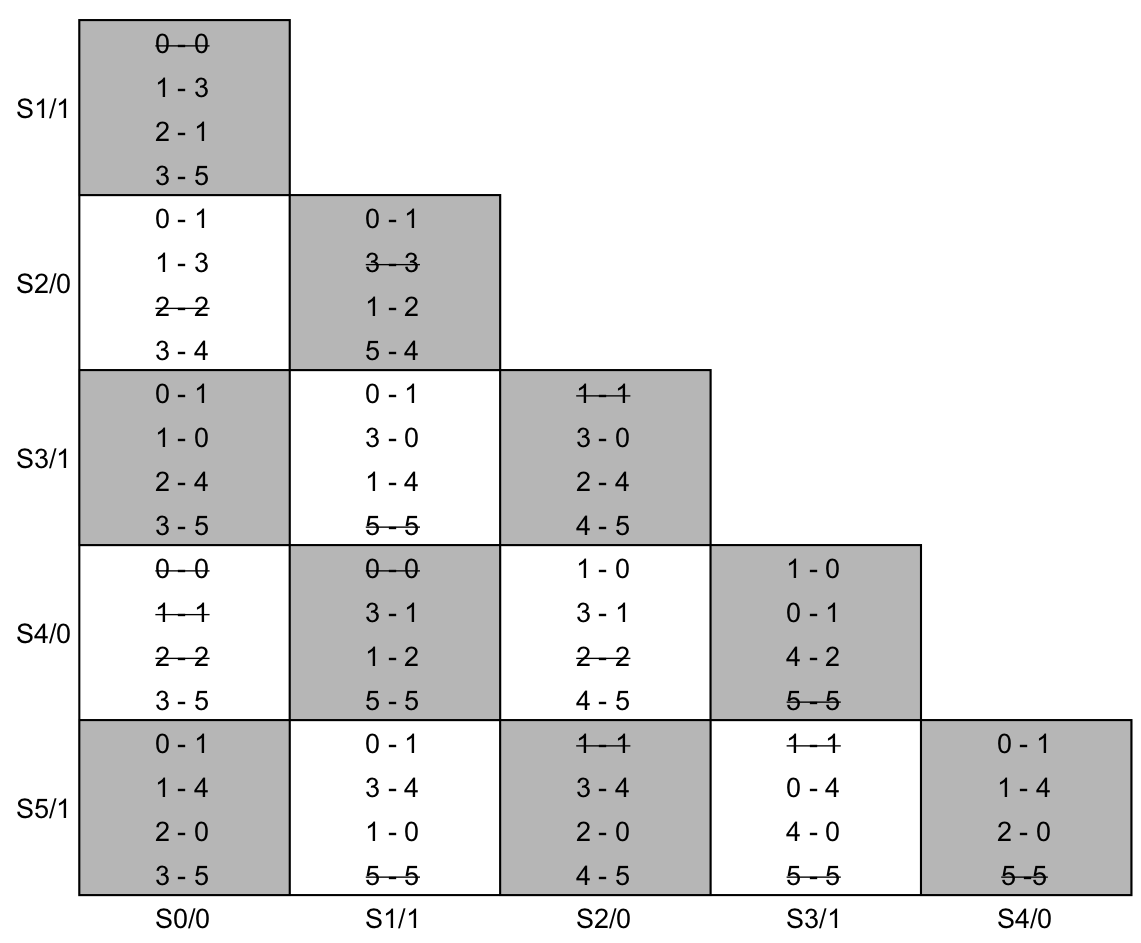
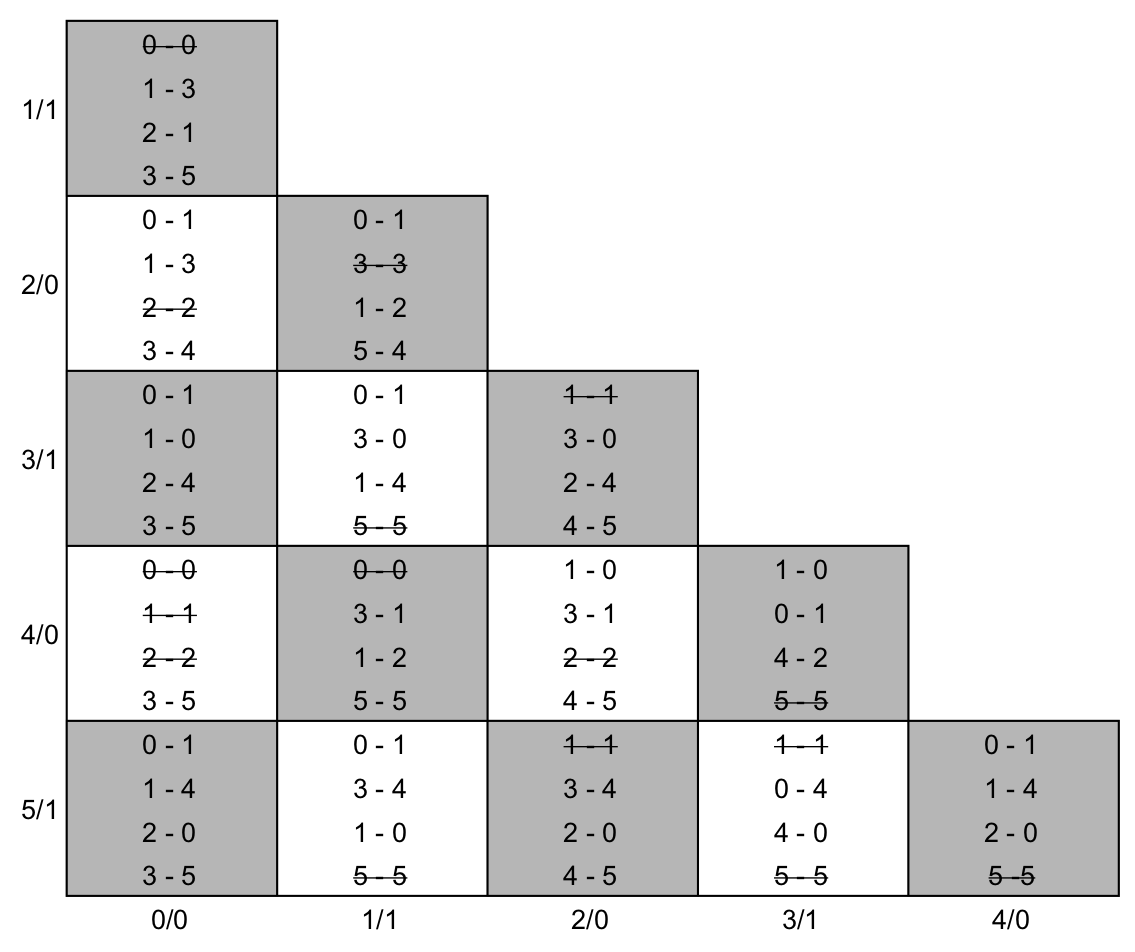
Generate Pelican site

Changed region(s): [[0.0, 0.0, 1.0, 0.9841]]

diff --git a/fsmstatereduction-pt_BR.html b/fsmstatereduction-pt_BR.html
@@ -44,7 +44,7 @@
 <meta property="og:url" content="https://balbertini.github.io/fsmstatereduction-pt_BR.html"/>
 <meta property="og:type" content="article"/>
 <meta property="article:published_time" content="2018-09-25 14:22:00-03:00"/>
-<meta property="article:modified_time" content="2018-09-26 18:02:00-03:00"/>
+<meta property="article:modified_time" content="2018-09-26 22:49:00-03:00"/>
 <meta property="article:author" content="https://balbertini.github.io/author/bruno-albertini.html">
 <meta property="article:section" content="sistemas digitais"/>
 <meta property="article:tag" content="sistemas digitais"/>
@@ -345,7 +345,7 @@
 <p><img src='https://balbertini.github.io/images/sd/sdfsmopt3.png' width="35%" align="right" style="padding-left:5%" />
 <br/>
 O diagrama de transição de estados minimizado pode ser visto na figura ao lado. Os estados S7, S9, S10, S12, S13 e S14 são representados pelo Sa, S4 e S6 pelo Sb e S8 e S11 pelo Sc.</p>
-<p>O método de análise da tabela de transição de estados se baseia na busca exaustiva por estados equivalentes. É fácil perceber que, conforme a tabela cresce, ficará mais difícil visualizar os estados equivalentes.</p>
+<p>O método de análise da tabela de transição de estados se baseia na busca exaustiva por estados equivalentes. É fácil perceber que, conforme a tabela cresce, ficará mais difícil visualizar os estados equivalentes. Além disso, o método não garante a menor quantidade de estados possível pois é baseado em estados e não em grupos de estados (veja o primeiro exemplo da próxima seção).</p>
 <div style="border: 0px; overflow: auto;width: 100%;"></div>
 
 <h2>O método de minimização por tabela de implicação</h2>
@@ -358,8 +358,10 @@ O diagrama de transição de estados minimizado pode ser visto na figura ao lado
 <p><img alt="Construção da tabela de implicação." src="https://balbertini.github.io/images/sd/sdfsmoptconsttab.png"></p>
 <p>Após obter a tabela de implicação, devemos preencher as células. Cada célula terá <span class="math">\(2^b\)</span> linhas, onde <span class="math">\(b\)</span> é o número de bits da entrada. E.g. se a entrada for de 1 bit, cada célula tem 2 linhas; se a entrada for de 2 bits, cada célula tem 4 linhas. Cada linha da entrada corresponde às transições daqueles estados para aquela entrada.</p>
 <p><img src='https://balbertini.github.io/images/sd/sdfsmoptconstcel.png' width="45%" align="right" style="padding-left:5%" />
-Na figura podemos ver o exemplo do preenchimento para duas células, ambas na linha do <span class="math">\(S_3\)</span> e coluna do <span class="math">\(S_4\)</span>. Para simplificar o preenchimento, usamos somente o número do estado, mas sinta-se a vontade para escrever o nome completo (especialmente útil se os nomes dos estados não forem numerados). Na célula na esquerda na figura, a entrada tem 1 bit, portanto temos duas linhas, uma para a entrada 0 e outra para a entrada 1. Já na célula a direita na figura, a entrada tem 2 bits, portanto temos 4 linhas, para as entradas 00, 01, 10 e 11.</p>
-<p>Os números em cada linha correspondem a transição que o estado fará para cada entrada. No exemplo a esquerda na figura, podemos assumir que, para uma determinada entrada e estando em <span class="math">\(S_3\)</span> ou em <span class="math">\(S_4\)</span>, a máquina transicionará para o estado <span class="math">\(S_0\)</span> ou <span class="math">\(S_1\)</span>. Na mesma situação mas para a outra entrada, a máquina transicionará para o estado <span class="math">\(S_2\)</span> ou <span class="math">\(S_3\)</span>. Mas como eu sei qual entrada? Não é preciso saber para qual entrada, apenas que as transições da mesma linha, separadas por <code>-</code>, são para a mesma entrada. De fato, alguns projetistas preferem ordenar as transições em ordem crescente para facilitar a busca por estados equivalentes. E.g. (linha superior / linha inferior) 3-2/1-2 é o mesmo que 1-2/2-3, mas ordenado. Fica a seu critério decidir a melhor forma de organizar sua tabela de implicação, mas lembre-se que cada linha corresponde a exatamente dois estados separados por <code>-</code>, para os quais a máquina de estados transicionará quando houver a mesma entrada.</p>
+Na figura podemos ver o exemplo do preenchimento para duas células, ambas na linha do S3 e coluna do S4. Para simplificar o preenchimento, usamos somente o número do estado, mas você pode escrever o nome completo do estado (especialmente útil se os nomes dos estados não forem numerados).</p>
+<p>Na célula na esquerda na figura, a entrada tem 1 bit, portanto temos duas linhas, uma para a entrada 0 e outra para a entrada 1. Nesta célula, a máquina é de Mealy com saída de 1 bit, que pode ser vista representada nas transições.</p>
+<p>Já na célula a direita na figura, a entrada tem 2 bits, portanto temos 4 linhas para as entradas 00, 01, 10 e 11. A máquina representada é de Moore e também tem um bit só de saída, que nesse caso é representado no estado e não na transição.</p>
+<p>Os números em cada linha correspondem a transição que o estado fará para cada entrada (e à saída referente àquela transição no caso de uma máquina de Mealy). No exemplo a esquerda na figura, podemos assumir que, para uma determinada entrada e estando em S3 ou em S4, a máquina transicionará para o estado S0/0 ou S1/0 (note que em ambas as transições a saída é 0). Na mesma situação mas para a outra entrada, a máquina transicionará para o estado S2/0 ou S3/1. Mas como eu sei qual entrada? Não é preciso saber para qual entrada, apenas que as transições da mesma linha, separadas por <code>-</code>, são para a mesma entrada. De fato, alguns projetistas preferem ordenar as transições em ordem crescente para facilitar a busca por estados equivalentes. E.g. (linha superior / linha inferior) 3-2/1-2 é o mesmo que 1-2/2-3, mas ordenado. Fica a seu critério decidir a melhor forma de organizar sua tabela de implicação, mas lembre-se que cada linha corresponde a exatamente dois estados separados por <code>-</code>, para os quais a máquina de estados transicionará quando houver a mesma entrada.</p>
 <p>É de praxe também assinalar os estados que produzem saídas diferentes, pois eles não podem ser equivalentes. Neste caso, coloque uma <code>/</code> no índice de coluna e linha (caso a máquina for de Moore) ou na transição dentro da célula (caso a máquina for de Mealy). Isto ficará mais claro no exemplo.</p>
 <h2>Procurando estados equivalentes</h2>
 <p>Com a tabela de implicação construída, devemos procurar os estados equivalentes. Isto é feito de forma exaustiva, analisando todas as células da tabela.</p>
@@ -378,27 +380,55 @@ Na figura podemos ver o exemplo do preenchimento para duas células, ambas na li
 <p>Durante a análise, pode acontecer de você eliminar uma linha inteira ou uma coluna inteira. Isso significa que o estado daquela linha ou coluna não é equivalente a nenhum outro estado, portanto você deve eliminar todas as células que tem alguma linha referenciando aquele estado. E.g. se você eliminou a linha toda do S3, você deve eliminar todas as células que possuam ao menos um 3 em alguma linha (x-3 ou 3-x).</p>
 <p>Você não precisa analisar células onde todas as linhas tenham sido riscadas no passo 1. Se você riscar todas as linhas de uma célula, os estados desta célula (linha-coluna) são automaticamente equivalentes. Você não precisa tomar nenhuma ação em relação a isso, apenas pule a análise da célula.</p>
 <p>Quando você terminar este processo, as células que você não eliminou representam <strong>classes de equivalência</strong>. Uma classe de equivalência é um grupo de estados que são equivalentes e, consequentemente, podem ser representados por um único estado. E.g. se a célula da linha 3 coluna 4 não foi eliminada, os estados S3 e S4 são equivalentes.</p>
-<h2>Exemplo 1/2</h2>
-<p>Suponha a mesma máquina de estados usada como exemplo no método de análise da tabela de transição de estados, mostrada na figura. Trata-se de uma máquina de Mealy que reconhece 0011 ou 1001 sem sobreposição.</p>
-<p><img alt="FSM em forma de árvore" src="https://balbertini.github.io/images/sd/sdfsmopt2.png"></p>
-<p>A máquina tem 15 estados, portanto temos uma matriz 15x15. A tabela de implicação, já com os valores das transições preenchidos e com as transições s-s riscadas, pode ser vista na figura abaixo. Isto corresponde à construção da tabela de implicação e à execução do passo 1 do algoritmo.</p>
-<p><img alt="Tabela exemplo 1 passo 1" src="https://balbertini.github.io/images/sd/sdfsmoptex1a.png"></p>
-<p>No passo 2, devemos eliminar as transições que produzem saídas diferentes. Note que esta é uma máquina de Mealy, então coloquei a saída na transição (e.g. nos estados S8 e S11, que são os que produzem saída, há transições na forma 0/1, indicando que esta transição produz saída 1). Quando não está especificada, assume-se que a saída é 0. Continuando o passo 2, devemos eliminar todas as células que contém uma transição s-t onde a saída de s é diferente da saída de t. Exemplo: a célula S14-S11 possui a segunda linha como 0/1-0, o que significa que, apesar de irem para o mesmo estado, uma produz saída 1 (0/1) e outra produz saída 0 (0/0, o /0 é implícito), portanto devemos eliminar esta célula toda. Isto pode ser visto na figura abaixo, onde as células eliminadas foram identificadas com fundo cinza.</p>
-<p><img alt="Tabela exemplo 1 passo 2" src="https://balbertini.github.io/images/sd/sdfsmoptex1b.png"></p>
-<p>O passo 2 eliminou os estados que trivialmente não são equivalentes. Podemos então começar o passo 3 analisando cada célula. Eu comecei pela célula mais a direita inferior e continuei analisando para a esquerda. A célula S14-S13 não precisa ser analisada pois tem todas as transições riscadas. Idem para a célula S14-S12. Já a célula S14-S11 foi eliminada anteriormente e também não precisa ser analisada.</p>
-<p>A primeira célula que realmente precisa ser analisada é a S14-S6. Nesta célula, a transição 13-0 aponta para a a célula S13-S0, e a transição 14-0 para a célula S14-S0. Estas células alvo ainda indicam equivalência, então não fiz nada na célula em análise (S14-S6). Idem para S14-S5 e S14-S4.</p>
-<p>Já na célula S14-S3, encontrei uma referência à S8-S0, que já foi eliminado em um passo anterior. Isso significa que eu devo eliminar esta célula. Nesse ponto, percebi que a linha do S8 estava inteira eliminada, então eliminei na tabela todas as células que fazem referência a S8. Na figura abaixo, a célula em análise (S14-S3) está em amarelo, a célula referenciada que foi o motivo da eliminação (S8-S0) está com borda amarela, e as células que eu eliminei estão em amarelo escuro. Apesar de ter usado cores, todas estas células devem ser pintadas de cinza (quando estiver executando o algoritmo no papel, faça um X na célula toda).</p>
-<p><img alt="Tabela exemplo 1 passo 3" src="https://balbertini.github.io/images/sd/sdfsmoptex1c.png"></p>
-<p>Se está lendo com cuidado, deve ter percebido que a eliminação feita na figura anterior eliminou o estado S3 inteiro. Isto significa que você pode eliminar todas as células que contém transições que referenciam o S3, pois ele não pode ser equivalente a nenhum outro estado. Se você continuar o algoritmo, terminará com a tabela de implicação abaixo, onde as células eliminadas estão em cinza.</p>
-<p><img alt="Tabela exemplo 1 fim" src="https://balbertini.github.io/images/sd/sdfsmoptex1d.png"></p>
-<p>Com o algoritmo finalizado, podemos inferir os estados equivalentes observando as células que não foram eliminadas. A célula S6-S4 indica que estes dois estados são equivalentes. Similarmente, a coluna S7 indica que os estados S7, S9, S10, S12, S13 e S14 são todos equivalentes. Isso pode ser corroborado pelas colunas do S9, S10, S11, S12 e S13, que indicam também esta equivalência. Ainda, a célula S11-S8 indica que estes estados são equivalentes (note que eles produzem saída 1).</p>
-<p>Para facilitar a visualização, a figura abaixo traz as classes de equivalência coloridas. Para a mesma cor, os estados são equivalentes.</p>
-<p><img alt="Tabela exemplo 1 colorida" src="https://balbertini.github.io/images/sd/sdfsmoptex1e.png"></p>
-<p><img src='https://balbertini.github.io/images/sd/sdfsmopt3.png' width="45%" align="right" style="padding-left:5%" />
-Por último, devemos reconstruir o diagrama de transição de estados. Para cada classe de equivalência, criamos um estado novo. As transições e as saídas podem ser copiadas de qualquer um dos estados da classe, pois eles são equivalentes (para as mesmas entradas, produzem a mesma saída e transicionam para o mesmo estado). Note que este método agrupa os estados em classes, então a transição do Sb (que é composto por S4 e S6) que vai para o S9, por exemplo, deve ir para o estado Sa (que é composto por S7, S9, S10, S12, S13 e S14) pois esta é a classe de equivalência que contém o S9. O diagrama desta tabela é idêntico ao obtido usando o método de análise da tabela de transição de estados.</p>
+<h2>Exemplo 1/3 - Moore simples</h2>
+<p>Este exemplo é de uma máquina de Moore que detecta uma paridade ímpar considerando todas as entradas que já passaram pela máquina. O diagrama e a tabela de transição de estados podem ser vistos abaixo:</p>
+<table class="tg" align="left">
+  <tr>
+    <th class="tg-baqh" colspan="3">Tabela E1</th>
+  </tr>
+  <tr>
+    <td class="tg-zlqz" rowspan="2">E.A.</td>
+    <td class="tg-zlqz" colspan="4">P.E.</td>
+  </tr>
+  <tr>
+    <td class="tg-zlqz">0</td>
+    <td class="tg-zlqz">1</td>
+  </tr>
+  <tr>
+    <td class="tg-baqh">A/0</td>
+    <td class="tg-baqh">A</td>
+    <td class="tg-baqh">B</td>
+  </tr>
+  <tr>
+    <td class="tg-baqh">B/1</td>
+    <td class="tg-baqh">B</td>
+    <td class="tg-baqh">C</td>
+  </tr>
+  <tr>
+    <td class="tg-baqh">C/0</td>
+    <td class="tg-baqh">C</td>
+    <td class="tg-baqh">B</td>
+  </tr>
+</table>
+
+<p><img src='https://balbertini.github.io/images/sd/sdfsmoptex1diag.png' width="13%" align="left" style="padding-left:5%; padding-right:5%"/>
+Tente minimizar esta máquina usando o método de análise da tabela de transição. É possível encontrar algum estado equivalente? Perceba que os estados A e C são equivalentes, mas não é possível perceber isto apenas com a tabela de transição de estados.</p>
 <div style="border: 0px; overflow: auto;width: 100%;"></div>
 
-<h2>Exemplo 2/2</h2>
+<p><img src='https://balbertini.github.io/images/sd/sdfsmoptex1a.png' width="55%" align="right" style="padding-left:5%"/>
+Vamos construir a tabela de implicação para verificar. Na figura ao lado, podemos ver: (esquerda) a tabela de implicação construída e com os estados (note que é uma máquina de Moore, então as saídas são representadas nos estados); (meio) a tabela de implicação com as linhas de acordo com a tabela de transição de estados; e (direita) a versão com a linha B-B já riscada, pois para esta entrada, a máquina transiciona para o mesmo estado independententemente de qual estado esteja. Isto equivale à construção da tabela de implicação e à execução do primeiro passo do algoritmo.</p>
+<div style="border: 0px; overflow: auto;width: 100%;"></div>
+
+<p><img src='https://balbertini.github.io/images/sd/sdfsmoptex1b.png' width="45%" align="left" style="padding-right:5%"/>
+No segundo passo eliminamos os estados que produzem saída diferentes, pois nunca poderão ser equivalentes. Isto pode ser visto à esquerda na figura ao lado (os estados eliminados foram destacados em cinza). Sobra a única célula a ser verificada, correspondente aos estados C/0-A/0. Esta célula tem uma linha riscada (que não precisa ser analisada) e uma linha que referencia A-C. A referência A-C aponta para a mesma célula que estamos analisando, a célula C/0-A/0. Como esta célula ainda não foi eliminada, nada resta a fazer e devemos continuar o algoritmo. Porém, não há mais células a serem analisadas, portanto o algoritmo terminou. Isso significa que a única célula que não foi eliminada será a nossa classe de equivalência, destacada em vermelho na tabela de implicação à direita.</p>
+<div style="border: 0px; overflow: auto;width: 100%;"></div>
+
+<p><img src='https://balbertini.github.io/images/sd/sdfsmoptex1diagmin.png' width="13%" align="left" style="padding-right:5%"/>
+A célula indica que a classe de equivalência contém somente dois estados, o C/0 e o A/0. Para finalizar, montamos um novo diagrama de transição de estados com um estado chamado AC/0, em vermelho, representando a classe de equivalência encontrada. As transições são transportadas dos estados da classe de equivalência e, obviamente, são esperadas que sejam</p>
+<p>Esta máquina tem a mesma funcionalidade que a anterior, porém tem um estado a menos. Este tipo de minimização não é possível usando a análise da tabela de transição de estados.</p>
+<div style="border: 0px; overflow: auto;width: 100%;"></div>
+
+<h2>Exemplo 2/3 - Moore com entrada de 2 bits</h2>
 <p>A Tabela E2 é a tabela de transição de estados de uma máquina de Moore, com entrada de dois bits. Sua funcionalidade ou diagrama de transição de estados não importam neste momento, mas o diagrama equivalente pode ser visto na figura.</p>
 <table class="tg" align="left">
   <tr>
@@ -461,7 +491,7 @@ Por último, devemos reconstruir o diagrama de transição de estados. Para cada
 <p><img src='https://balbertini.github.io/images/sd/sdfsmoptex2diag.png' width="45%" align="right" style="padding-left:5%" /></p>
 <div style="border: 0px; overflow: auto;width: 100%;"></div>
 
-<p>Nas tabelas abaixo podemos ver a tabela construída e com o passo 1 executado (esquerda) e após o passo 2 executado (direita).</p>
+<p>Nas tabelas abaixo podemos ver a tabela construída e com o passo 1 executado (esquerda) e após o passo 2 executado (direita). Note que, para minimizar o esforço em preencher a tabela e evitar poluí-la, eu eliminei o "S" e utilizei somente os índices dos estados.</p>
 <p><img src='https://balbertini.github.io/images/sd/sdfsmoptex2a.png' width="50%" align="left" />
 <img src='https://balbertini.github.io/images/sd/sdfsmoptex2b.png' width="50%" align="right"/></p>
 <div style="border: 0px; overflow: auto;width: 100%;"></div>
@@ -519,9 +549,33 @@ Por último, devemos reconstruir o diagrama de transição de estados. Para cada
 <p><img src='https://balbertini.github.io/images/sd/sdfsmoptex2diagmin.png' width="45%" align="right" style="padding-left:5%" /></p>
 <div style="border: 0px; overflow: auto;width: 100%;"></div>
 
+<h2>Exemplo 3/3 - Mealy com 15 estados</h2>
+<p>Suponha a mesma máquina de estados usada como exemplo no método de análise da tabela de transição de estados, mostrada na figura. Trata-se de uma máquina de Mealy que reconhece 0011 ou 1001 sem sobreposição.</p>
+<p><img alt="FSM em forma de árvore" src="https://balbertini.github.io/images/sd/sdfsmopt2.png"></p>
+<p>A máquina tem 15 estados, portanto temos uma matriz 15x15. A tabela de implicação, já com os valores das transições preenchidos e com as transições s-s riscadas, pode ser vista na figura abaixo. Note que esta é uma máquina de Mealy, então coloquei a saída na transição (e.g. nos estados S8 e S11, que são os que produzem saída, há transições na forma 0/1, indicando que esta transição produz saída 1). Isto corresponde à construção da tabela de implicação e à execução do passo 1 do algoritmo.</p>
+<p><img alt="Tabela exemplo 1 passo 1" src="https://balbertini.github.io/images/sd/sdfsmoptex3a.png"></p>
+<p>No passo 2, devemos eliminar as transições que produzem saídas diferentes, ou seja, devemos eliminar todas as células que contém uma transição s-t onde a saída de s é diferente da saída de t. Exemplo: a célula S14-S11 possui a segunda linha como 0/1-0, o que significa que, apesar de irem para o mesmo estado, uma produz saída 1 (0/1) e outra produz saída 0 (0/0), portanto devemos eliminar esta célula toda. Isto pode ser visto na figura abaixo, onde as células eliminadas foram identificadas com fundo cinza e a linha que foi o motivo da eliminação com cinza escuro.</p>
+<p><img alt="Tabela exemplo 1 passo 2" src="https://balbertini.github.io/images/sd/sdfsmoptex3b.png"></p>
+<p>O passo 2 eliminou os estados que trivialmente não são equivalentes. Podemos então começar o passo 3 analisando cada célula. Eu comecei pela célula mais a direita inferior e continuei analisando para a esquerda. A célula S14-S13 não precisa ser analisada pois tem todas as transições riscadas. Idem para a célula S14-S12. Já a célula S14-S11 foi eliminada anteriormente e também não precisa ser analisada.</p>
+<p>A primeira célula que realmente precisa ser analisada é a S14-S6. Nesta célula, a transição 13-0 aponta para a a célula S13-S0, e a transição 14-0 para a célula S14-S0. Estas células alvo ainda indicam equivalência, então não fiz nada na célula em análise (S14-S6). Idem para S14-S5 e S14-S4.</p>
+<p>Já na célula S14-S3, encontrei uma referência à S8-S0, que já foi eliminado em um passo anterior. Isso significa que eu devo eliminar esta célula. Nesse ponto, percebi que a linha do S8 estava inteira eliminada, então eliminei na tabela todas as células que fazem referência a S8. Na figura abaixo, eliminei todas as células que faziam referência ao estado S8.</p>
+<p><img alt="Tabela exemplo 1 passo 3" src="https://balbertini.github.io/images/sd/sdfsmoptex3c.png"></p>
+<p>Se está lendo com cuidado, deve ter percebido que a eliminação feita na figura anterior eliminou o estado S3 inteiro. Isto significa que você pode eliminar todas as células que contém transições que referenciam o S3, pois ele não pode ser equivalente a nenhum outro estado. Se você continuar o algoritmo, terminará com a tabela de implicação abaixo, onde as células eliminadas estão em cinza.</p>
+<p><img alt="Tabela exemplo 1 eliminadas" src="https://balbertini.github.io/images/sd/sdfsmoptex3d.png"></p>
+<p>A única célula que ainda precisa de análise é a célula S6-S4. Esta célula referencia os estados S9-S13 na primeira linha e S10-S14 na segunda linha. Ambas as células S9-S13 e S10-S14 não foram eliminadas pois possuem todas as suas linhas riscadas, então não devemos fazer nada nesta célula. Como não há mais células a serem analisadas, o algoritmo terminou.</p>
+<p>Com o algoritmo finalizado, podemos inferir os estados equivalentes observando as células que não foram eliminadas. A célula S6-S4 indica que estes dois estados são equivalentes. Similarmente, a coluna S7 indica que os estados S7, S9, S10, S12, S13 e S14 são todos equivalentes. Isso pode ser corroborado pelas colunas do S9, S10, S11, S12 e S13, que indicam também esta equivalência. Ainda, a célula S11-S8 indica que estes estados são equivalentes (note que eles produzem saída 1).</p>
+<p>Para facilitar a visualização, a figura abaixo traz as classes de equivalência coloridas. Para a mesma cor, os estados são equivalentes.</p>
+<p><img alt="Tabela exemplo 1 fim" src="https://balbertini.github.io/images/sd/sdfsmoptex3e.png"></p>
+<p><img src='https://balbertini.github.io/images/sd/sdfsmopt3.png' width="45%" align="right" style="padding-left:5%" />
+Por último, devemos reconstruir o diagrama de transição de estados. Para cada classe de equivalência, criamos um estado novo. As transições e as saídas podem ser copiadas de qualquer um dos estados da classe, pois eles são equivalentes (para as mesmas entradas, produzem a mesma saída e transicionam para o mesmo estado). Note que este método agrupa os estados em classes, então a transição do Sb (que é composto por S4 e S6) que vai para o S9, por exemplo, deve ir para o estado Sa (que é composto por S7, S9, S10, S12, S13 e S14) pois esta é a classe de equivalência que contém o S9. O diagrama desta tabela é idêntico ao obtido usando o método de análise da tabela de transição de estados.</p>
+<div style="border: 0px; overflow: auto;width: 100%;"></div>
+
+<h1>Referências</h1>
 <p><p/>
 [1] DE VRIES, A. Finite automata: Behavior and synthesis. Elsevier, 2014.<br>
-[2] KAM, Timothy et al. Synthesis of finite state machines: functional optimization. Springer Science &amp; Business Media, 2013.</p>
+[2] KAM, Timothy et al. Synthesis of finite state machines: functional optimization. Springer Science &amp;
+Business Media, 2013.</p>
+<p>Algumas partes dos exemplos foram adaptados de apresentações do <a href="http://www-inst.eecs.berkeley.edu/~cs150/sp00/classnotes/katz-ch9-mod.pdf">Prof. Randy H. Katz</a> e da disciplina <a href="https://courses.cs.washington.edu/courses/cse370/09wi/LectureSlides/22-Minimization.pdf">CSE370, Lecture 22</a>.</p>
 <script type="text/javascript">if (!document.getElementById('mathjaxscript_pelican_#%@#$@#')) {
     var align = "center",
         indent = "0em",
@@ -580,7 +634,7 @@ Por último, devemos reconstruir o diagrama de transição de estados. Para cada
   </div>
 
    <div>
-     Última atualização: 2018-09-26 18:02:00-03:00
+     Última atualização: 2018-09-26 22:49:00-03:00
    </div>
 
 
